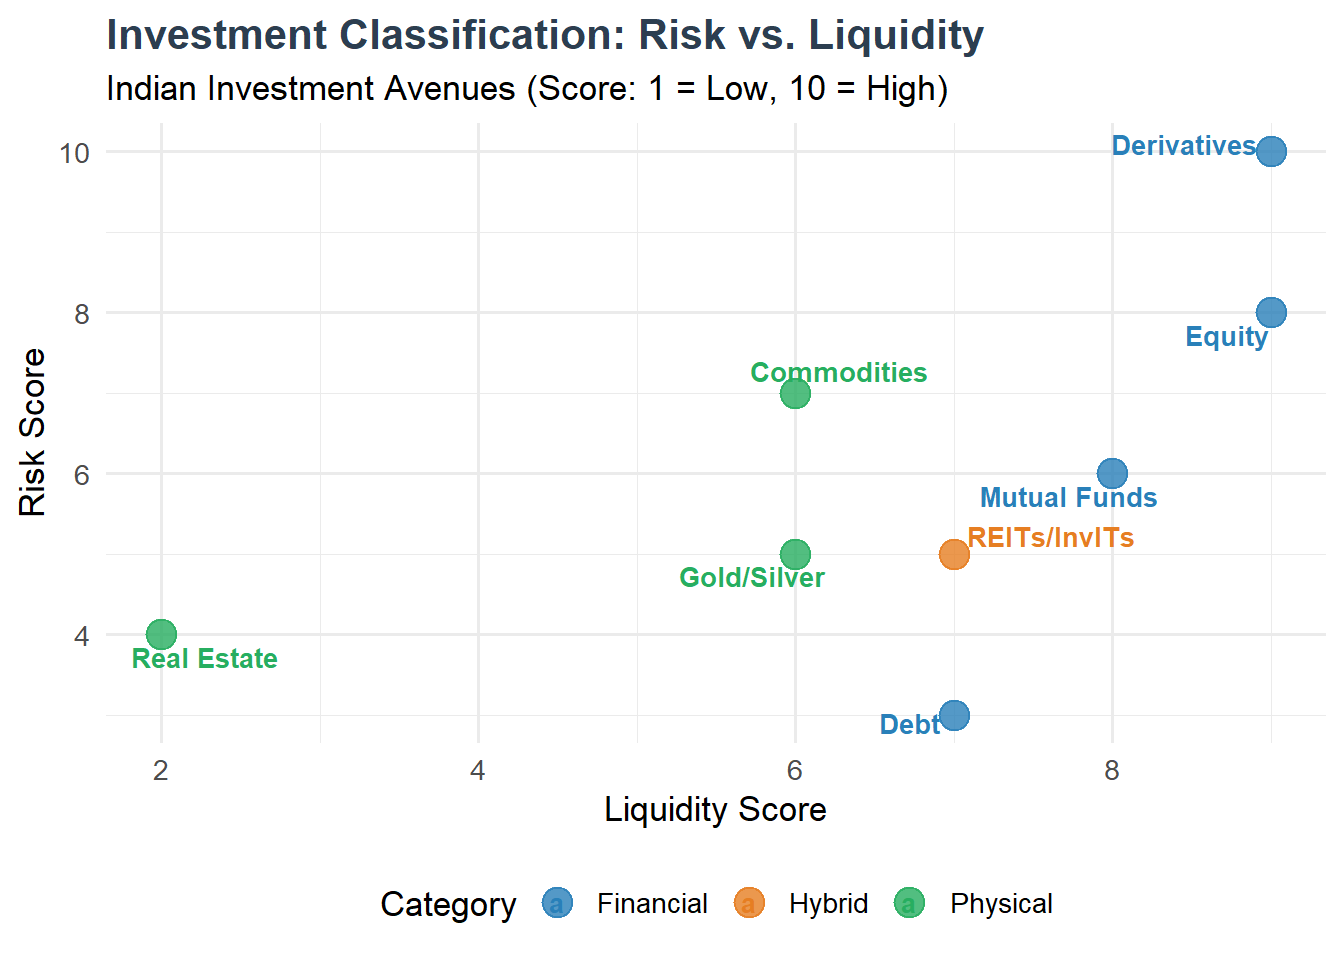
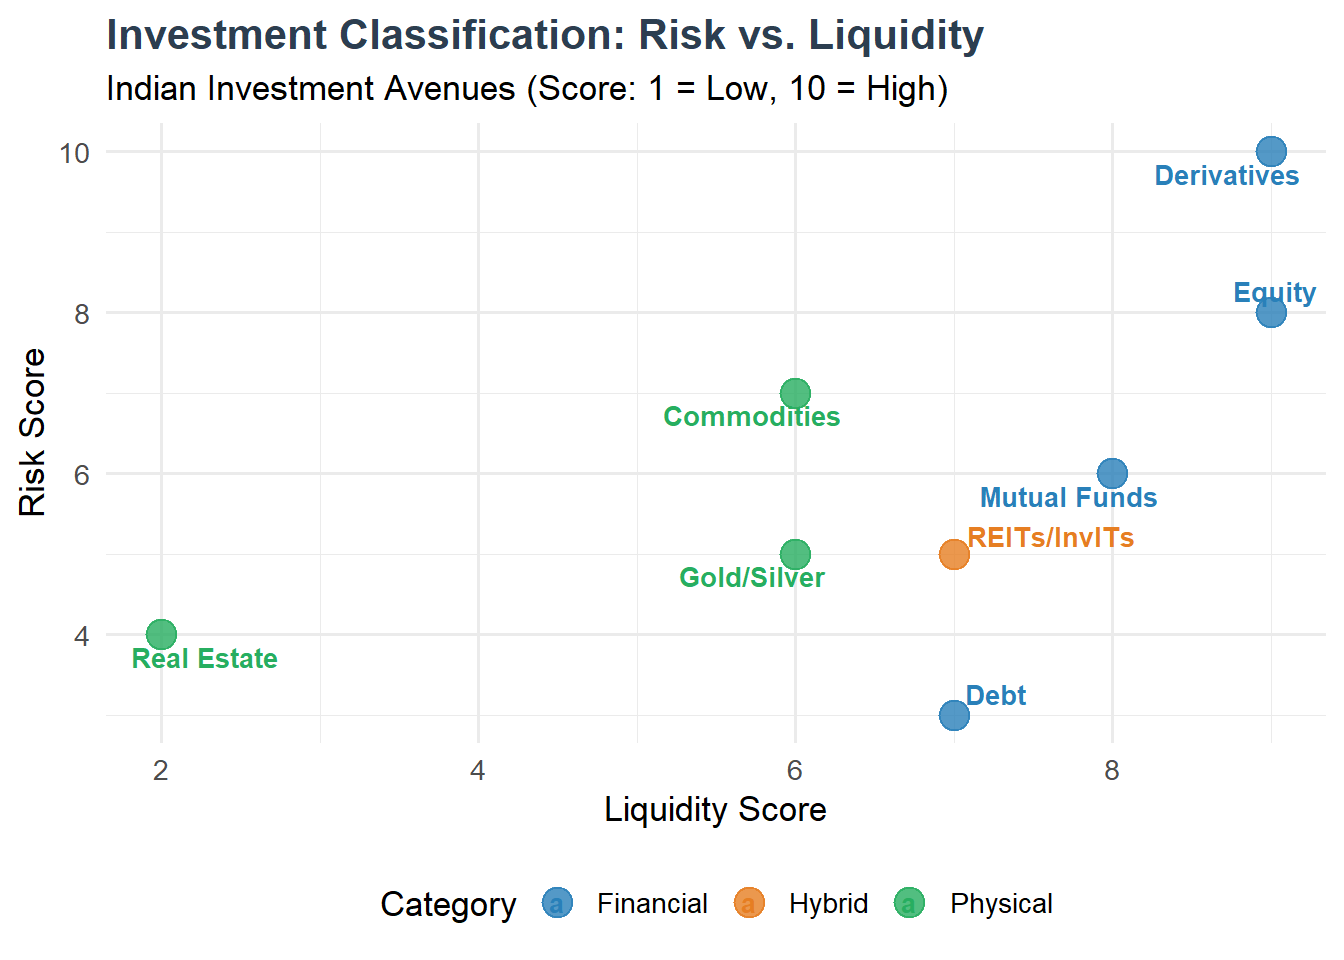
14.07.26-22.08

diff --git a/docs/trading-view-practicals.html b/docs/trading-view-practicals.html
@@ -23,7 +23,7 @@
 <meta name="author" content="RAJAKRISHNAN MANIVEL" />
 
 
-<meta name="date" content="2026-06-20" />
+<meta name="date" content="2026-07-14" />
 
   <meta name="viewport" content="width=device-width, initial-scale=1" />
   <meta name="apple-mobile-web-app-capable" content="yes" />
@@ -52,6 +52,10 @@
 <link href="libs/anchor-sections-1.1.0/anchor-sections.css" rel="stylesheet" />
 <link href="libs/anchor-sections-1.1.0/anchor-sections-hash.css" rel="stylesheet" />
 <script src="libs/anchor-sections-1.1.0/anchor-sections.js"></script>
+<script src="libs/kePrint-0.0.1/kePrint.js"></script>
+<link href="libs/lightable-0.0.1/lightable.css" rel="stylesheet" />
+<link href="libs/bsTable-3.3.7/bootstrapTable.min.css" rel="stylesheet" />
+<script src="libs/bsTable-3.3.7/bootstrapTable.js"></script>
 
 
 
@@ -136,6 +140,7 @@
 <li class="chapter" data-level="6.2" data-path="trading-view-practicals.html"><a href="trading-view-practicals.html#program2-ema-crossover"><i class="fa fa-check"></i><b>6.2</b> Program 2: EMA Crossover Breakout Strategy</a></li>
 <li class="chapter" data-level="6.3" data-path="trading-view-practicals.html"><a href="trading-view-practicals.html#program3-vwap-intraday"><i class="fa fa-check"></i><b>6.3</b> Program 3: VWAP Intraday Trend Strategy</a></li>
 <li class="chapter" data-level="6.4" data-path="trading-view-practicals.html"><a href="trading-view-practicals.html#program3b-anchored-vwap"><i class="fa fa-check"></i><b>6.4</b> Program 3B: Anchored VWAP for Long-Term Investing</a></li>
+<li class="chapter" data-level="6.5" data-path="trading-view-practicals.html"><a href="trading-view-practicals.html#program4-macd-momentum"><i class="fa fa-check"></i><b>6.5</b> Program 4: MACD Momentum Strategy</a></li>
 </ul></li>
 <li class="divider"></li>
 <li><a href="https://github.com/rstudio/bookdown" target="blank">Published with bookdown</a></li>
@@ -565,6 +570,109 @@
 <li>AVWAP works best as a complementary tool alongside SMA/EMA trend analysis, since it adds a volume dimension that simple moving averages do not account for.</li>
 </ul>
 <hr />
+</div>
+<div id="program4-macd-momentum" class="section level2 hasAnchor" number="6.5">
+<h2><span class="header-section-number">6.5</span> Program 4: MACD Momentum Strategy<a href="trading-view-practicals.html#program4-macd-momentum" class="anchor-section" aria-label="Anchor link to header"></a></h2>
+<p><em>Objective</em></p>
+<p>To identify trend strength and potential reversals using the Moving Average Convergence Divergence (MACD) indicator — applied to Indian stock market (NSE/BSE) charts on TradingView for long-term investing decisions.</p>
+<blockquote>
+<p><strong>What makes MACD different from Programs 1 and 2?</strong> SMA and EMA are plotted directly on the price chart as overlays. MACD, by contrast, is an <strong>oscillator</strong> — it appears in a separate panel below the main price chart and measures the relationship between two EMAs (typically 12 and 26 period) along with a signal line and a histogram. This makes it especially useful for spotting <strong>momentum shifts and divergences</strong> that price-only overlays can miss.</p>
+</blockquote>
+<p><em>Steps</em></p>
+<p><em>Step 1: Go to TradingView and Open Your Stock Chart</em></p>
+<ol style="list-style-type: decimal">
+<li>Open your browser and navigate to <strong><a href="https://www.tradingview.com">tradingview.com</a></strong>.</li>
+<li>Sign in to your account.</li>
+<li>Search for and select your NSE stock — for example, type <strong>RELIANCE</strong> in the symbol search bar and choose the listing tagged <strong>NSE</strong> (it should appear as <code>NSE:RELIANCE</code>).</li>
+<li>Set the timeframe to <strong>1W (1 Week)</strong> using the timeframe selector in the top toolbar, so the chart displays weekly candles suitable for long-term analysis.</li>
+</ol>
+<p><em>Step 2: Open the Indicators Panel</em></p>
+<ol style="list-style-type: decimal">
+<li>Click on <strong>“Indicators”</strong> in the top toolbar of the chart (shown with the <code>fx</code>-style icon).</li>
+<li>The <strong>“Indicators &amp; Strategies”</strong> search panel will open.</li>
+</ol>
+<p><em>Step 3: Search and Add MACD</em></p>
+<ol style="list-style-type: decimal">
+<li>In the search box, type <strong>MACD</strong>.</li>
+<li>From the results list, select the <strong>built-in “MACD” (Moving Average Convergence Divergence)</strong> indicator — the official one maintained by TradingView.</li>
+<li>Click on it once to add it to your chart. By default it uses the standard settings: a <strong>12-period EMA</strong>, a <strong>26-period EMA</strong>, and a <strong>9-period signal line</strong> — these defaults work well for weekly NSE stock analysis and generally don’t need to be changed for this exercise.</li>
+</ol>
+<p><em>Step 4: MACD Added Below the Chart</em></p>
+<ol style="list-style-type: decimal">
+<li>Unlike SMA/EMA, the MACD indicator does <strong>not</strong> sit on top of the price candles. Instead, it opens in a <strong>separate panel directly below your main chart</strong>.</li>
+<li>In this panel, you’ll see three components:
+<ul>
+<li><strong>MACD Line</strong> (typically blue) — the difference between the 12-period and 26-period EMA.</li>
+<li><strong>Signal Line</strong> (typically orange/red) — a 9-period EMA of the MACD line itself, used to generate crossover signals.</li>
+<li><strong>Histogram</strong> (vertical bars, usually green/red) — visually represents the gap between the MACD line and the signal line; taller bars indicate stronger momentum in that direction.</li>
+</ul></li>
+<li>You’ll also notice a <strong>horizontal zero line</strong> running through the middle of this panel — this is a key reference level used in the trading rule below.</li>
+</ol>
+<p><em>Interpretation</em></p>
+<table>
+<colgroup>
+<col width="33%" />
+<col width="33%" />
+<col width="33%" />
+</colgroup>
+<thead>
+<tr class="header">
+<th>Signal</th>
+<th>Visual Cue</th>
+<th>Meaning</th>
+</tr>
+</thead>
+<tbody>
+<tr class="odd">
+<td>🟢 <strong>MACD Line Crossing Above Signal Line</strong></td>
+<td>Blue line crosses upward over the orange/red signal line</td>
+<td><strong>Buy</strong> signal — momentum is turning positive</td>
+</tr>
+<tr class="even">
+<td>🔴 <strong>MACD Line Crossing Below Signal Line</strong></td>
+<td>Blue line crosses downward below the orange/red signal line</td>
+<td><strong>Sell</strong> signal — momentum is turning negative</td>
+</tr>
+<tr class="odd">
+<td>🔵 <strong>Divergence</strong></td>
+<td>Price makes a new high/low on the main chart, but MACD fails to make a corresponding new high/low</td>
+<td><strong>Reversal Signal</strong> — momentum is weakening even though price is still extending, often an early warning of a trend change</td>
+</tr>
+</tbody>
+</table>
+<blockquote>
+<p><strong>Understanding Divergence in the Indian context:</strong> Divergence is one of the most valuable uses of MACD for long-term NSE investors. For example, if a stock like <code>NSE:HDFCBANK</code> makes a new 52-week high but the MACD line makes a <em>lower</em> high compared to its previous peak, this is called <strong>bearish divergence</strong> — it suggests the rally is losing underlying momentum even though price looks strong, often preceding a correction. The reverse (price making a lower low while MACD makes a higher low) is <strong>bullish divergence</strong>, often seen near the end of prolonged corrections in quality stocks.</p>
+</blockquote>
+<p><em>Trading Rule</em></p>
+<ul>
+<li>🟢 <strong>BUY</strong>: Enter when there is a <strong>MACD crossover above the zero line</strong> — meaning the MACD line not only crosses above the signal line, but the crossover itself occurs while the MACD line is in positive territory (above the zero line on the panel). This combination signals that momentum has turned bullish <strong>and</strong> is strong enough to be in positive territory, filtering out weaker crossover signals that happen deep in negative territory during a still-strong downtrend.</li>
+</ul>
+<blockquote>
+<p><strong>Why the zero line matters:</strong> A crossover that happens <em>below</em> the zero line, while it can still mark a momentum shift, often happens during weak, range-bound, or recovering downtrends and tends to be less reliable for committing fresh long-term capital. Waiting for the crossover to occur above the zero line adds a layer of trend confirmation, similar in spirit to combining EMA crossovers with price position in Program 2.</p>
+</blockquote>
+<p><em>Combining With Earlier Programs</em></p>
+<p>MACD works well as a complementary momentum check alongside the trend tools from Programs 1 and 2:</p>
+<ul>
+<li>Use <strong>SMA 50</strong> (Program 1) to confirm the stock is in a broad uptrend (price above the SMA).</li>
+<li>Use <strong>EMA 20/50 crossover</strong> (Program 2) to confirm short-term momentum aligns with the long-term trend.</li>
+<li>Use <strong>MACD</strong> (this chapter) as a final momentum and divergence check — particularly useful for catching early warning signs of trend exhaustion in stocks that otherwise look strong on the SMA/EMA overlays alone.</li>
+</ul>
+<p><em>Practice Exercise</em></p>
+<ol style="list-style-type: decimal">
+<li>Open <code>NSE:TCS</code> on the Weekly timeframe and add the MACD indicator with default settings.</li>
+<li>Scroll through the last 2–3 years of price history and identify at least two MACD crossovers that occurred above the zero line, and one that occurred below it.</li>
+<li>Compare how price behaved after each type of crossover — did the above-zero-line crossovers tend to lead to stronger, more sustained moves?</li>
+<li>Look for any instance of bullish or bearish divergence between price and the MACD line on this chart, and note what happened to price in the weeks following that divergence.</li>
+<li>Repeat with <code>NSE:ICICIBANK</code> and compare the frequency and reliability of MACD signals between a banking stock and an IT stock.</li>
+</ol>
+<p><em>Key Takeaways</em></p>
+<ul>
+<li>MACD is a momentum oscillator that sits below the price chart and tracks the relationship between a fast and slow EMA, helping identify both trend strength and early signs of reversal.</li>
+<li>MACD line crossovers above/below the signal line generate basic buy/sell signals, while divergence between price and MACD often provides earlier warning of a weakening trend than price action alone.</li>
+<li>Requiring the crossover to occur above the zero line adds a useful filter, helping long-term investors avoid weaker signals that occur during shaky or recovering downtrends.</li>
+<li>MACD is most effective when used alongside trend-confirmation tools like SMA and EMA (Programs 1 and 2) rather than in isolation, especially for long-term investing decisions on NSE stocks.</li>
+</ul>
+<hr />
 
 </div>
 </div>
@@ -628,6 +736,20 @@ gitbook.start({
 });
 </script>
 
+<!-- dynamically load mathjax for compatibility with self-contained -->
+<script>
+  (function () {
+    var script = document.createElement("script");
+    script.type = "text/javascript";
+    var src = "true";
+    if (src === "" || src === "true") src = "https://cdnjs.cloudflare.com/ajax/libs/mathjax/2.7.9/latest.js?config=TeX-MML-AM_CHTML";
+    if (location.protocol !== "file:")
+      if (/^https?:/.test(src))
+        src = src.replace(/^https?:/, '');
+    script.src = src;
+    document.getElementsByTagName("head")[0].appendChild(script);
+  })();
+</script>
 </body>
 
 </html>

diff --git a/docs/404.html b/docs/404.html
@@ -23,7 +23,7 @@
 <meta name="author" content="RAJAKRISHNAN MANIVEL" />
 
 
-<meta name="date" content="2026-06-20" />
+<meta name="date" content="2026-07-14" />
 
   <meta name="viewport" content="width=device-width, initial-scale=1" />
   <meta name="apple-mobile-web-app-capable" content="yes" />
@@ -52,6 +52,10 @@
 <link href="libs/anchor-sections-1.1.0/anchor-sections.css" rel="stylesheet" />
 <link href="libs/anchor-sections-1.1.0/anchor-sections-hash.css" rel="stylesheet" />
 <script src="libs/anchor-sections-1.1.0/anchor-sections.js"></script>
+<script src="libs/kePrint-0.0.1/kePrint.js"></script>
+<link href="libs/lightable-0.0.1/lightable.css" rel="stylesheet" />
+<link href="libs/bsTable-3.3.7/bootstrapTable.min.css" rel="stylesheet" />
+<script src="libs/bsTable-3.3.7/bootstrapTable.js"></script>
 
 
 
@@ -136,6 +140,7 @@
 <li class="chapter" data-level="6.2" data-path="trading-view-practicals.html"><a href="trading-view-practicals.html#program2-ema-crossover"><i class="fa fa-check"></i><b>6.2</b> Program 2: EMA Crossover Breakout Strategy</a></li>
 <li class="chapter" data-level="6.3" data-path="trading-view-practicals.html"><a href="trading-view-practicals.html#program3-vwap-intraday"><i class="fa fa-check"></i><b>6.3</b> Program 3: VWAP Intraday Trend Strategy</a></li>
 <li class="chapter" data-level="6.4" data-path="trading-view-practicals.html"><a href="trading-view-practicals.html#program3b-anchored-vwap"><i class="fa fa-check"></i><b>6.4</b> Program 3B: Anchored VWAP for Long-Term Investing</a></li>
+<li class="chapter" data-level="6.5" data-path="trading-view-practicals.html"><a href="trading-view-practicals.html#program4-macd-momentum"><i class="fa fa-check"></i><b>6.5</b> Program 4: MACD Momentum Strategy</a></li>
 </ul></li>
 <li class="divider"></li>
 <li><a href="https://github.com/rstudio/bookdown" target="blank">Published with bookdown</a></li>
@@ -222,6 +227,20 @@ gitbook.start({
 });
 </script>
 
+<!-- dynamically load mathjax for compatibility with self-contained -->
+<script>
+  (function () {
+    var script = document.createElement("script");
+    script.type = "text/javascript";
+    var src = "true";
+    if (src === "" || src === "true") src = "https://cdnjs.cloudflare.com/ajax/libs/mathjax/2.7.9/latest.js?config=TeX-MML-AM_CHTML";
+    if (location.protocol !== "file:")
+      if (/^https?:/.test(src))
+        src = src.replace(/^https?:/, '');
+    script.src = src;
+    document.getElementsByTagName("head")[0].appendChild(script);
+  })();
+</script>
 </body>
 
 </html>

diff --git a/docs/index.html b/docs/index.html
@@ -23,7 +23,7 @@
 <meta name="author" content="RAJAKRISHNAN MANIVEL" />
 
 
-<meta name="date" content="2026-06-18" />
+<meta name="date" content="2026-07-14" />
 
   <meta name="viewport" content="width=device-width, initial-scale=1" />
   <meta name="apple-mobile-web-app-capable" content="yes" />
@@ -134,7 +134,14 @@
 <li class="chapter" data-level="3" data-path="module-iii.html"><a href="module-iii.html"><i class="fa fa-check"></i><b>3</b> Module III</a></li>
 <li class="chapter" data-level="4" data-path="module-iv.html"><a href="module-iv.html"><i class="fa fa-check"></i><b>4</b> Module IV</a></li>
 <li class="chapter" data-level="5" data-path="module-v.html"><a href="module-v.html"><i class="fa fa-check"></i><b>5</b> Module V</a></li>
-<li class="chapter" data-level="6" data-path="trading-view-practicals.html"><a href="trading-view-practicals.html"><i class="fa fa-check"></i><b>6</b> Trading View Practicals</a></li>
+<li class="chapter" data-level="6" data-path="trading-view-practicals.html"><a href="trading-view-practicals.html"><i class="fa fa-check"></i><b>6</b> Trading View Practicals</a>
+<ul>
+<li class="chapter" data-level="6.1" data-path="trading-view-practicals.html"><a href="trading-view-practicals.html#program-1-sma-trend-identification-dynamic-supportresistance"><i class="fa fa-check"></i><b>6.1</b> Program 1: SMA Trend Identification &amp; Dynamic Support/Resistance</a></li>
+<li class="chapter" data-level="6.2" data-path="trading-view-practicals.html"><a href="trading-view-practicals.html#program2-ema-crossover"><i class="fa fa-check"></i><b>6.2</b> Program 2: EMA Crossover Breakout Strategy</a></li>
+<li class="chapter" data-level="6.3" data-path="trading-view-practicals.html"><a href="trading-view-practicals.html#program3-vwap-intraday"><i class="fa fa-check"></i><b>6.3</b> Program 3: VWAP Intraday Trend Strategy</a></li>
+<li class="chapter" data-level="6.4" data-path="trading-view-practicals.html"><a href="trading-view-practicals.html#program3b-anchored-vwap"><i class="fa fa-check"></i><b>6.4</b> Program 3B: Anchored VWAP for Long-Term Investing</a></li>
+<li class="chapter" data-level="6.5" data-path="trading-view-practicals.html"><a href="trading-view-practicals.html#program4-macd-momentum"><i class="fa fa-check"></i><b>6.5</b> Program 4: MACD Momentum Strategy</a></li>
+</ul></li>
 <li class="divider"></li>
 <li><a href="https://github.com/rstudio/bookdown" target="blank">Published with bookdown</a></li>
 </ul>
@@ -157,7 +164,7 @@
 <div id="header">
 <h1 class="title">PORTFOLIO MANAGEMENT</h1>
 <p class="author"><em>RAJAKRISHNAN MANIVEL</em></p>
-<p class="date"><em>2026-06-18</em></p>
+<p class="date"><em>2026-07-14</em></p>
 </div>
 <div id="Module1" class="section level1 hasAnchor" number="1">
 <h1><span class="header-section-number">Chapter 1</span> Fundamentals of Investment<a href="index.html#Module1" class="anchor-section" aria-label="Anchor link to header"></a></h1>

diff --git a/docs/module-ii.html b/docs/module-ii.html
@@ -23,7 +23,7 @@
 <meta name="author" content="RAJAKRISHNAN MANIVEL" />
 
 
-<meta name="date" content="2026-06-14" />
+<meta name="date" content="2026-07-14" />
 
   <meta name="viewport" content="width=device-width, initial-scale=1" />
   <meta name="apple-mobile-web-app-capable" content="yes" />
@@ -134,7 +134,14 @@
 <li class="chapter" data-level="3" data-path="module-iii.html"><a href="module-iii.html"><i class="fa fa-check"></i><b>3</b> Module III</a></li>
 <li class="chapter" data-level="4" data-path="module-iv.html"><a href="module-iv.html"><i class="fa fa-check"></i><b>4</b> Module IV</a></li>
 <li class="chapter" data-level="5" data-path="module-v.html"><a href="module-v.html"><i class="fa fa-check"></i><b>5</b> Module V</a></li>
-<li class="chapter" data-level="6" data-path="trading-view-practicals.html"><a href="trading-view-practicals.html"><i class="fa fa-check"></i><b>6</b> Trading View Practicals</a></li>
+<li class="chapter" data-level="6" data-path="trading-view-practicals.html"><a href="trading-view-practicals.html"><i class="fa fa-check"></i><b>6</b> Trading View Practicals</a>
+<ul>
+<li class="chapter" data-level="6.1" data-path="trading-view-practicals.html"><a href="trading-view-practicals.html#program-1-sma-trend-identification-dynamic-supportresistance"><i class="fa fa-check"></i><b>6.1</b> Program 1: SMA Trend Identification &amp; Dynamic Support/Resistance</a></li>
+<li class="chapter" data-level="6.2" data-path="trading-view-practicals.html"><a href="trading-view-practicals.html#program2-ema-crossover"><i class="fa fa-check"></i><b>6.2</b> Program 2: EMA Crossover Breakout Strategy</a></li>
+<li class="chapter" data-level="6.3" data-path="trading-view-practicals.html"><a href="trading-view-practicals.html#program3-vwap-intraday"><i class="fa fa-check"></i><b>6.3</b> Program 3: VWAP Intraday Trend Strategy</a></li>
+<li class="chapter" data-level="6.4" data-path="trading-view-practicals.html"><a href="trading-view-practicals.html#program3b-anchored-vwap"><i class="fa fa-check"></i><b>6.4</b> Program 3B: Anchored VWAP for Long-Term Investing</a></li>
+<li class="chapter" data-level="6.5" data-path="trading-view-practicals.html"><a href="trading-view-practicals.html#program4-macd-momentum"><i class="fa fa-check"></i><b>6.5</b> Program 4: MACD Momentum Strategy</a></li>
+</ul></li>
 <li class="divider"></li>
 <li><a href="https://github.com/rstudio/bookdown" target="blank">Published with bookdown</a></li>
 </ul>

diff --git a/docs/module-iii.html b/docs/module-iii.html
@@ -23,7 +23,7 @@
 <meta name="author" content="RAJAKRISHNAN MANIVEL" />
 
 
-<meta name="date" content="2026-06-14" />
+<meta name="date" content="2026-07-14" />
 
   <meta name="viewport" content="width=device-width, initial-scale=1" />
   <meta name="apple-mobile-web-app-capable" content="yes" />
@@ -134,7 +134,14 @@
 <li class="chapter" data-level="3" data-path="module-iii.html"><a href="module-iii.html"><i class="fa fa-check"></i><b>3</b> Module III</a></li>
 <li class="chapter" data-level="4" data-path="module-iv.html"><a href="module-iv.html"><i class="fa fa-check"></i><b>4</b> Module IV</a></li>
 <li class="chapter" data-level="5" data-path="module-v.html"><a href="module-v.html"><i class="fa fa-check"></i><b>5</b> Module V</a></li>
-<li class="chapter" data-level="6" data-path="trading-view-practicals.html"><a href="trading-view-practicals.html"><i class="fa fa-check"></i><b>6</b> Trading View Practicals</a></li>
+<li class="chapter" data-level="6" data-path="trading-view-practicals.html"><a href="trading-view-practicals.html"><i class="fa fa-check"></i><b>6</b> Trading View Practicals</a>
+<ul>
+<li class="chapter" data-level="6.1" data-path="trading-view-practicals.html"><a href="trading-view-practicals.html#program-1-sma-trend-identification-dynamic-supportresistance"><i class="fa fa-check"></i><b>6.1</b> Program 1: SMA Trend Identification &amp; Dynamic Support/Resistance</a></li>
+<li class="chapter" data-level="6.2" data-path="trading-view-practicals.html"><a href="trading-view-practicals.html#program2-ema-crossover"><i class="fa fa-check"></i><b>6.2</b> Program 2: EMA Crossover Breakout Strategy</a></li>
+<li class="chapter" data-level="6.3" data-path="trading-view-practicals.html"><a href="trading-view-practicals.html#program3-vwap-intraday"><i class="fa fa-check"></i><b>6.3</b> Program 3: VWAP Intraday Trend Strategy</a></li>
+<li class="chapter" data-level="6.4" data-path="trading-view-practicals.html"><a href="trading-view-practicals.html#program3b-anchored-vwap"><i class="fa fa-check"></i><b>6.4</b> Program 3B: Anchored VWAP for Long-Term Investing</a></li>
+<li class="chapter" data-level="6.5" data-path="trading-view-practicals.html"><a href="trading-view-practicals.html#program4-macd-momentum"><i class="fa fa-check"></i><b>6.5</b> Program 4: MACD Momentum Strategy</a></li>
+</ul></li>
 <li class="divider"></li>
 <li><a href="https://github.com/rstudio/bookdown" target="blank">Published with bookdown</a></li>
 </ul>

diff --git a/docs/module-iv.html b/docs/module-iv.html
@@ -23,7 +23,7 @@
 <meta name="author" content="RAJAKRISHNAN MANIVEL" />
 
 
-<meta name="date" content="2026-06-14" />
+<meta name="date" content="2026-07-14" />
 
   <meta name="viewport" content="width=device-width, initial-scale=1" />
   <meta name="apple-mobile-web-app-capable" content="yes" />
@@ -134,7 +134,14 @@
 <li class="chapter" data-level="3" data-path="module-iii.html"><a href="module-iii.html"><i class="fa fa-check"></i><b>3</b> Module III</a></li>
 <li class="chapter" data-level="4" data-path="module-iv.html"><a href="module-iv.html"><i class="fa fa-check"></i><b>4</b> Module IV</a></li>
 <li class="chapter" data-level="5" data-path="module-v.html"><a href="module-v.html"><i class="fa fa-check"></i><b>5</b> Module V</a></li>
-<li class="chapter" data-level="6" data-path="trading-view-practicals.html"><a href="trading-view-practicals.html"><i class="fa fa-check"></i><b>6</b> Trading View Practicals</a></li>
+<li class="chapter" data-level="6" data-path="trading-view-practicals.html"><a href="trading-view-practicals.html"><i class="fa fa-check"></i><b>6</b> Trading View Practicals</a>
+<ul>
+<li class="chapter" data-level="6.1" data-path="trading-view-practicals.html"><a href="trading-view-practicals.html#program-1-sma-trend-identification-dynamic-supportresistance"><i class="fa fa-check"></i><b>6.1</b> Program 1: SMA Trend Identification &amp; Dynamic Support/Resistance</a></li>
+<li class="chapter" data-level="6.2" data-path="trading-view-practicals.html"><a href="trading-view-practicals.html#program2-ema-crossover"><i class="fa fa-check"></i><b>6.2</b> Program 2: EMA Crossover Breakout Strategy</a></li>
+<li class="chapter" data-level="6.3" data-path="trading-view-practicals.html"><a href="trading-view-practicals.html#program3-vwap-intraday"><i class="fa fa-check"></i><b>6.3</b> Program 3: VWAP Intraday Trend Strategy</a></li>
+<li class="chapter" data-level="6.4" data-path="trading-view-practicals.html"><a href="trading-view-practicals.html#program3b-anchored-vwap"><i class="fa fa-check"></i><b>6.4</b> Program 3B: Anchored VWAP for Long-Term Investing</a></li>
+<li class="chapter" data-level="6.5" data-path="trading-view-practicals.html"><a href="trading-view-practicals.html#program4-macd-momentum"><i class="fa fa-check"></i><b>6.5</b> Program 4: MACD Momentum Strategy</a></li>
+</ul></li>
 <li class="divider"></li>
 <li><a href="https://github.com/rstudio/bookdown" target="blank">Published with bookdown</a></li>
 </ul>

diff --git a/docs/module-v.html b/docs/module-v.html
@@ -23,7 +23,7 @@
 <meta name="author" content="RAJAKRISHNAN MANIVEL" />
 
 
-<meta name="date" content="2026-06-14" />
+<meta name="date" content="2026-07-14" />
 
   <meta name="viewport" content="width=device-width, initial-scale=1" />
   <meta name="apple-mobile-web-app-capable" content="yes" />
@@ -134,7 +134,14 @@
 <li class="chapter" data-level="3" data-path="module-iii.html"><a href="module-iii.html"><i class="fa fa-check"></i><b>3</b> Module III</a></li>
 <li class="chapter" data-level="4" data-path="module-iv.html"><a href="module-iv.html"><i class="fa fa-check"></i><b>4</b> Module IV</a></li>
 <li class="chapter" data-level="5" data-path="module-v.html"><a href="module-v.html"><i class="fa fa-check"></i><b>5</b> Module V</a></li>
-<li class="chapter" data-level="6" data-path="trading-view-practicals.html"><a href="trading-view-practicals.html"><i class="fa fa-check"></i><b>6</b> Trading View Practicals</a></li>
+<li class="chapter" data-level="6" data-path="trading-view-practicals.html"><a href="trading-view-practicals.html"><i class="fa fa-check"></i><b>6</b> Trading View Practicals</a>
+<ul>
+<li class="chapter" data-level="6.1" data-path="trading-view-practicals.html"><a href="trading-view-practicals.html#program-1-sma-trend-identification-dynamic-supportresistance"><i class="fa fa-check"></i><b>6.1</b> Program 1: SMA Trend Identification &amp; Dynamic Support/Resistance</a></li>
+<li class="chapter" data-level="6.2" data-path="trading-view-practicals.html"><a href="trading-view-practicals.html#program2-ema-crossover"><i class="fa fa-check"></i><b>6.2</b> Program 2: EMA Crossover Breakout Strategy</a></li>
+<li class="chapter" data-level="6.3" data-path="trading-view-practicals.html"><a href="trading-view-practicals.html#program3-vwap-intraday"><i class="fa fa-check"></i><b>6.3</b> Program 3: VWAP Intraday Trend Strategy</a></li>
+<li class="chapter" data-level="6.4" data-path="trading-view-practicals.html"><a href="trading-view-practicals.html#program3b-anchored-vwap"><i class="fa fa-check"></i><b>6.4</b> Program 3B: Anchored VWAP for Long-Term Investing</a></li>
+<li class="chapter" data-level="6.5" data-path="trading-view-practicals.html"><a href="trading-view-practicals.html#program4-macd-momentum"><i class="fa fa-check"></i><b>6.5</b> Program 4: MACD Momentum Strategy</a></li>
+</ul></li>
 <li class="divider"></li>
 <li><a href="https://github.com/rstudio/bookdown" target="blank">Published with bookdown</a></li>
 </ul>